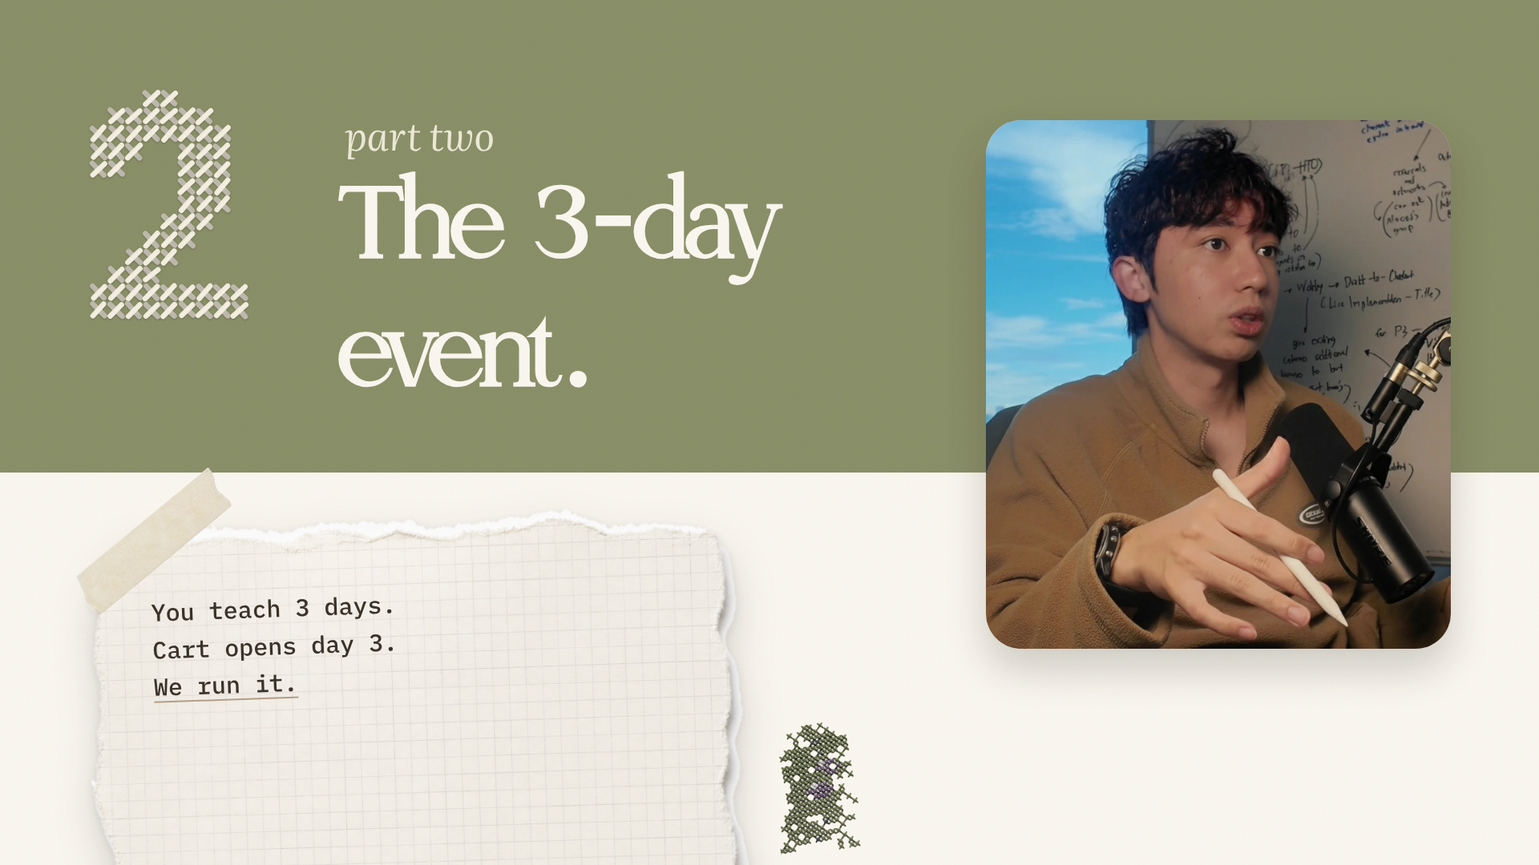
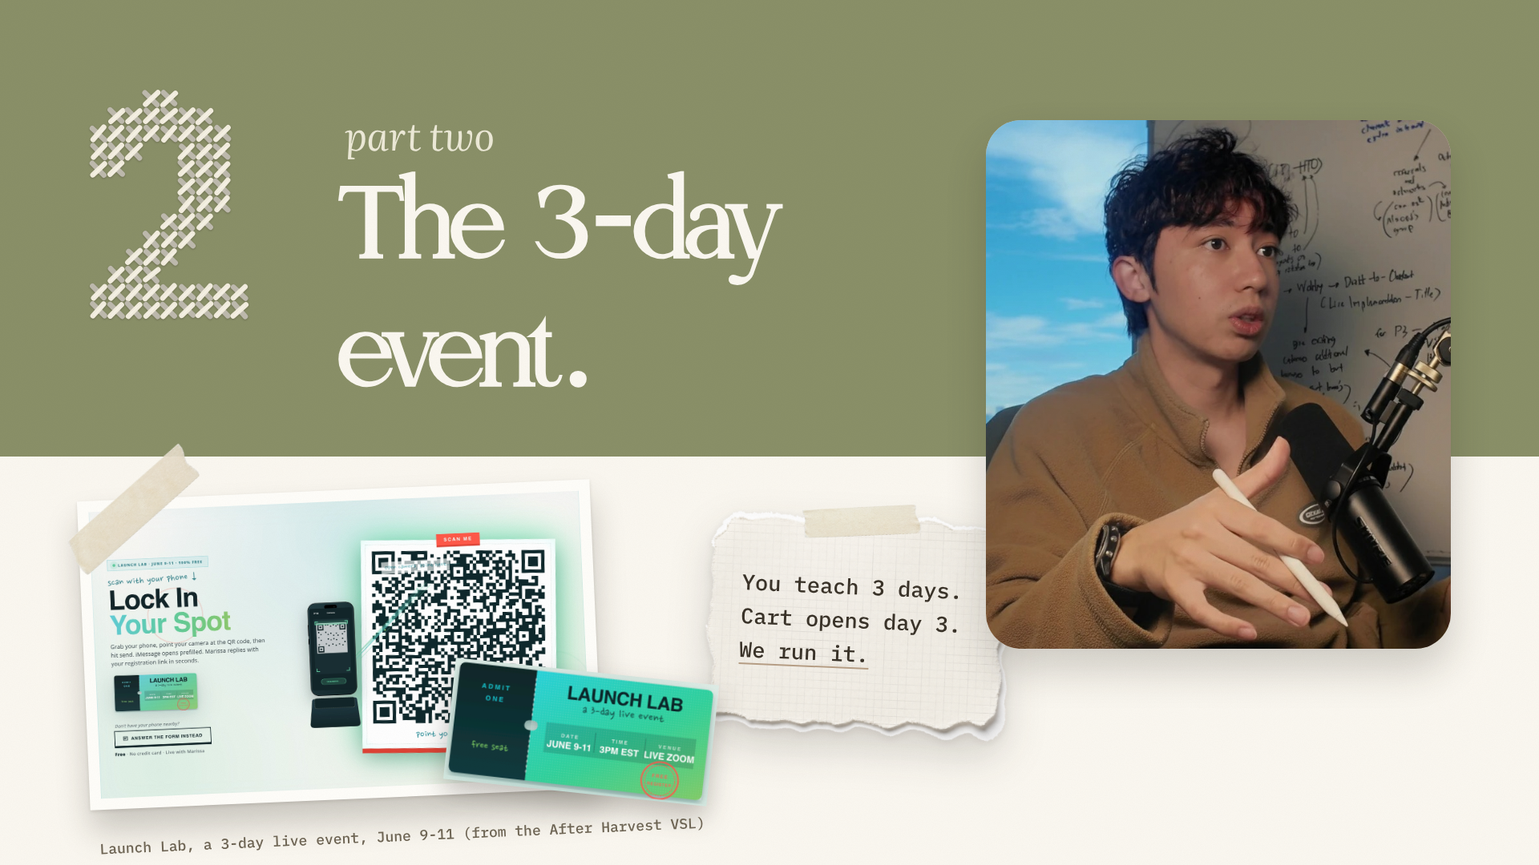
Light YouTube set: real pictures and screenshots on slides 3, 7, 8, 10
Our own screenshots from the VSL in Figma (Launch Lab page and ticket, Jay Clouse's
post, our chat, his Lab photos) and marked stock placeholders from picjumbo, shown as
taped prints and polaroids with a one-line source. New shared classes .pol, .print,
.mark, .src. Sources in art/real/SOURCES.md; the standard in rulings.md and
rules/slide-method.md 3e (Sean 2026-10-29).

Claude-Session: https://claude.ai/code/session_011DXSQiHkohnvERXvgbS9yh

diff --git a/templates/youtube/youtube-light.html b/templates/youtube/youtube-light.html
@@ -62,6 +62,19 @@
 .tile { position: absolute; border-radius: 18px; border: 3px dashed #C9BCA4; background: rgba(241,236,225,.6); z-index: 10;
   display: flex; align-items: center; justify-content: center; font-family: var(--label); font-size: 22px; color: #A99D84; }
 
+/* real pictures (Sean 2026-10-29): a polaroid for a photo, a print for a screenshot, the source line under it */
+.pol { position: absolute; background: #FFFEFA; padding: 16px 16px 0; z-index: 12;
+  box-shadow: 0 24px 36px rgba(38,33,25,.24), 0 2px 4px rgba(38,33,25,.12); }
+.pol .p { display: block; width: 100%; object-fit: cover; }
+.pol .cap { padding: 14px 6px 20px; }
+.pol .cap b { display: block; font-family: var(--body); font-weight: 800; font-size: 28px; line-height: 1.15; color: #262119; }
+.pol .cap > span { display: block; margin-top: 8px; font-family: var(--label); font-size: 19px; line-height: 1.4; color: #6E6554; }
+.print { position: absolute; background: #FFFEFA; padding: 14px; z-index: 12;
+  box-shadow: 0 26px 40px rgba(38,33,25,.22), 0 2px 4px rgba(38,33,25,.12); }
+.print img { display: block; width: 100%; }
+.print .mark { position: absolute; background: rgba(232,161,0,.42); mix-blend-mode: multiply; border-radius: 4px; transform: rotate(-.6deg); }
+.src { position: absolute; z-index: 20; font-family: var(--label); font-size: 18px; color: #6E6554; }
+
 /* 1. Title. Deya 1 + 24: a small lead-in, a huge word, a script line, an aside; objects at the edges. */
 .s1 .pre { left: 118px; top: 196px; font-size: 52px; }
 .s1 .mega { left: 106px; top: 262px; font-size: 168px; }
@@ -88,16 +101,20 @@
 .s2 .cam { left: 1530px; top: 120px; width: 300px; height: 300px; }
 .s2 .wheat { left: 1500px; top: 820px; width: 520px; transform: rotate(-150deg); z-index: 5; }
 
-/* 3. Part title. Deya 18 + 19: a colour band, the number stitched, the face over the edge, a torn note taped below. */
-.s3 .band { position: absolute; left: 0; top: 0; width: 1920px; height: 590px; background: #8A9068; z-index: 2; }
+/* 3. Part title. Deya 18 + 19, with the real thing (Sean 2026-10-29: "in my slides, there to be real pictures, real
+   screenshots"): a real 3-day event's page and ticket taped under the band, the note beside it. */
+.s3 .band { position: absolute; left: 0; top: 0; width: 1920px; height: 570px; background: #8A9068; z-index: 2; }
 .s3 .num { left: 112px; top: 112px; z-index: 20; }
 .s3 .pre { left: 430px; top: 132px; font-size: 48px; color: #EDEAD8; }
 .s3 .ol { left: 424px; top: 200px; font-size: 156px; color: #FBF8F1; }
 .s3 .cam { left: 1230px; top: 150px; width: 580px; height: 660px; }
-.s3 .paper { left: 112px; top: 640px; width: 820px; transform: rotate(-2deg); z-index: 10; }
-.s3 .note { left: 190px; top: 730px; transform: rotate(-2deg); z-index: 20; width: 680px; }
-.s3 .tape1 { left: 80px; top: 630px; width: 220px; transform: rotate(-30deg); }
-.s3 .sprig { left: 960px; top: 880px; width: 120px; transform: rotate(-10deg); }
+.s3 .page { left: 104px; top: 612px; width: 640px; transform: rotate(-2.5deg); }
+.s3 .ticket { left: 560px; top: 838px; width: 330px; transform: rotate(6deg); z-index: 16; filter: drop-shadow(0 14px 16px rgba(38,33,25,.28)); }
+.s3 .src { left: 124px; top: 1032px; transform: rotate(-2.5deg); }
+.s3 .paper { left: 880px; top: 640px; width: 380px; transform: rotate(2.5deg); z-index: 10; }
+.s3 .note { left: 924px; top: 712px; width: 320px; font-size: 27px; transform: rotate(2.5deg); z-index: 20; }
+.s3 .tape1 { left: 70px; top: 596px; width: 190px; transform: rotate(-32deg); }
+.s3 .tape2 { left: 1000px; top: 622px; width: 150px; transform: rotate(7deg); }
 
 /* 4. The actual problem. Deya 13: bold title with one shouted word, typewriter underneath, a colour panel, a
    character standing next to the face (ours is the stitched scarecrow). */
@@ -128,29 +145,34 @@
 .s6 .burst { left: 1540px; top: 110px; width: 300px; height: 300px; background: #8A9068; transform: rotate(10deg); }
 .s6 .burst span { font-size: 36px; color: #FBF8F1; width: 190px; }
 
-/* 7. Proof, taped. Deya 14: the label runs up the edge, the screenshot is taped on, a drawn arrow points. */
+/* 7. Proof, taped. Deya 14: the label runs up the edge, the REAL screenshot taped on in two pieces (Jason slides
+   20:17: screenshots are your best friend; highlight the key line only, keep the source under it). */
 .s7 .side { position: absolute; left: 52px; top: 120px; height: 860px; writing-mode: vertical-rl; transform: rotate(180deg); text-align: right;
   font-family: var(--display-italic); font-size: 200px; line-height: 1; color: #B06A4A; -webkit-text-stroke: .02em currentColor; z-index: 20; }
-.s7 .post1 { left: 400px; top: 180px; width: 1000px; padding: 46px 52px 40px; transform: rotate(-2deg); }
-.s7 .post2 { left: 1010px; top: 640px; width: 680px; padding: 28px 36px; transform: rotate(2.2deg); z-index: 16; }
-.s7 .tape1 { left: 380px; top: 150px; width: 230px; transform: rotate(-26deg); }
-.s7 .tape2 { left: 1260px; top: 120px; width: 230px; transform: rotate(20deg); }
-.s7 .arrow { left: 270px; top: 520px; width: 230px; transform: rotate(-12deg); z-index: 30; }
+.s7 .p1 { left: 330px; top: 104px; width: 548px; transform: rotate(-2deg); }
+.s7 .p1 .mark { left: 72px; top: 136px; width: 182px; height: 28px; }
+.s7 .p2 { left: 846px; top: 330px; width: 628px; transform: rotate(2.4deg); z-index: 13; }
+.s7 .s1 { left: 350px; top: 852px; transform: rotate(-2deg); }
+.s7 .s2 { left: 870px; top: 950px; transform: rotate(2.4deg); }
+.s7 .lab { left: 1478px; top: 596px; width: 400px; transform: rotate(5deg); }
+.s7 .tape1 { left: 300px; top: 92px; width: 210px; transform: rotate(-28deg); }
+.s7 .tape2 { left: 1300px; top: 318px; width: 190px; transform: rotate(24deg); }
+.s7 .tape3 { left: 1600px; top: 580px; width: 150px; transform: rotate(-6deg); }
+.s7 .line { left: 350px; top: 998px; font-size: 40px; }
 .s7 .cam { left: 1500px; top: 110px; width: 340px; height: 340px; }
-.s7 .sprig { left: 300px; top: 850px; width: 110px; transform: rotate(-16deg); }
-.msg { display: flex; gap: 16px; align-items: flex-start; } .msg + .msg { margin-top: 18px; }
-.msg .av { width: 54px; height: 54px; font-size: 19px; } .msg .me { background: url(art/sean-face-preview.png) center 30%/cover; }
-.msg .nm { font-size: 24px; color: #262119; } .msg .tm { font-size: 19px; color: #8C8576; font-weight: 400; margin-left: 10px; }
-.msg .say { font-size: 29px; color: #262119; margin-top: 2px; }
 
-/* 8. Same list, same offer: which one sells? Deya 11: the question, chips, real objects. */
+/* 8. Same list, same offer: which one sells? Deya 11: the question, chips, real pictures (a real live session, a
+   real 3-day event's ticket; a stock photo stands in for the launch inbox). */
 .s8 .pre { left: 0; right: 0; top: 96px; text-align: center; font-size: 50px; }
 .s8 .mega { left: 0; right: 0; top: 160px; text-align: center; font-size: 132px; }
-.s8 .k1 { left: 150px; top: 350px; font-size: 84px; color: #6E6554; }
-.s8 .k2 { left: 1050px; top: 350px; font-size: 84px; color: #B06A4A; }
-.s8 .env { left: 170px; top: 470px; width: 520px; transform: rotate(-5deg); filter: saturate(.6) drop-shadow(0 22px 26px rgba(38,33,25,.16)); }
-.s8 .tix { left: 1100px; top: 450px; width: 720px; }
-.s8 .c1 { left: 150px; top: 850px; width: 620px; } .s8 .c2 { left: 1150px; top: 880px; width: 720px; }
+.s8 .k1 { left: 150px; top: 330px; font-size: 84px; color: #6E6554; }
+.s8 .k2 { left: 1130px; top: 330px; font-size: 84px; color: #B06A4A; }
+.s8 .pa { left: 140px; top: 446px; width: 560px; transform: rotate(-3deg); }
+.s8 .pa .p { height: 330px; filter: saturate(.75); }
+.s8 .pb { left: 1150px; top: 446px; width: 620px; transform: rotate(2.5deg); }
+.s8 .pb .p { height: 318px; }
+.s8 .tkt { left: 1600px; top: 372px; width: 270px; transform: rotate(9deg); z-index: 18; filter: drop-shadow(0 14px 16px rgba(38,33,25,.28)); }
+.s8 .c1 { left: 150px; top: 920px; width: 620px; } .s8 .c2 { left: 1200px; top: 922px; width: 700px; }
 .s8 .or { left: 928px; top: 520px; z-index: 20; }
 .s8 .cam { left: 805px; top: 700px; width: 310px; height: 310px; }
 
@@ -164,15 +186,23 @@
 .s9 .w2 { left: 1480px; top: 790px; width: 640px; transform: rotate(-148deg); z-index: 5; }
 .s9 .flower { left: 1560px; top: 160px; width: 120px; transform: rotate(12deg); }
 
-/* 10. Why events sell more. Deya 10: a full colour field, the list top to bottom (Jason 1:29), numbers stitched. */
+/* 10. Why events sell more. Deya 10: a full colour field, the list top to bottom (Jason 1:29) as three taped
+   polaroids, each reason shown by a real photo, numbers stitched on the frames. */
 .s10 { background: #8A9068; }
 .s10::before { mix-blend-mode: multiply; opacity: .55; }
-.s10 .ol { left: 112px; top: 110px; font-size: 120px; color: #FBF8F1; }
-.s10 .row { position: absolute; left: 118px; display: flex; gap: 40px; align-items: flex-start; z-index: 20; }
-.s10 .row .w { font-family: var(--body); font-weight: 800; font-size: 54px; color: #FBF8F1; letter-spacing: -.01em; line-height: 1.1; }
-.s10 .row .t { font-family: var(--label); font-size: 27px; color: #E4E3D2; margin-top: 10px; }
-.s10 .r1 { top: 330px; } .s10 .r2 { top: 545px; } .s10 .r3 { top: 760px; }
-.s10 .row .n { width: 100px; padding-top: 6px; }
+.s10 .ol { left: 112px; top: 96px; font-size: 112px; color: #FBF8F1; }
+.s10 .pol { width: 340px; }
+.s10 .pol .p { height: 230px; }
+.s10 .q1 { left: 112px; top: 300px; transform: rotate(-3deg); }
+.s10 .q2 { left: 480px; top: 334px; transform: rotate(2deg); }
+.s10 .q3 { left: 848px; top: 296px; transform: rotate(-1.5deg); }
+.s10 .pol .n { position: absolute; left: 6px; bottom: -94px; z-index: 3; }
+.s10 .pol .cap b span { white-space: nowrap; }
+.s10 .pol .n { left: 18px; }
+.s10 .t1 { left: 222px; top: 284px; width: 130px; transform: rotate(-8deg); }
+.s10 .t2 { left: 590px; top: 318px; width: 130px; transform: rotate(6deg); }
+.s10 .t3 { left: 958px; top: 280px; width: 130px; transform: rotate(-4deg); }
+.s10 .line { left: 118px; top: 850px; width: 1080px; font-size: 42px; color: #F3EEDF; }
 .s10 .paper { left: 1200px; top: 120px; width: 700px; transform: rotate(4deg); z-index: 5; }
 .s10 .cam { left: 1270px; top: 210px; width: 560px; height: 680px; }
 .s10 .wheat { left: 1560px; top: 880px; width: 480px; transform: rotate(-160deg); z-index: 45; }
@@ -228,10 +258,13 @@
   <div class="a num" data-stitch="2" data-cell="22" data-px="18" data-color="#F3EEDF"></div>
   <div data-edit class="a pre">part two</div>
   <div data-edit class="a ol">The 3-day<br>event.</div>
+  <div class="print page"><img src="art/real/launch-lab-registration-page.jpg" alt=""></div>
+  <img class="ticket a" src="art/real/launch-lab-ticket.png" alt="">
+  <div data-edit class="src">Launch Lab, a 3-day live event, June 9-11 (from the After Harvest VSL)</div>
   <img class="ph paper" src="art/photo/graph.png" alt="">
   <div class="a tw note"><span data-edit>You teach 3 days.</span><br><span data-edit>Cart opens day 3.</span><br><span data-edit><u>We run it.</u></span></div>
   <img class="tp tape1" src="art/photo/tape2.png" alt="">
-  <img class="icon sprig" src="art/figma/stitch-sprig-olive-lilac.png" alt="">
+  <img class="tp tape2" src="art/photo/tape1.png" alt="">
   <div class="cam box"><img src="art/sean-cam.jpg" alt=""></div>
 </section>
 
@@ -270,20 +303,16 @@
 <!-- 7 proof, taped -->
 <section class="slide lt s7" id="s7-proof">
   <div data-edit class="side">proof #1</div>
-  <div class="post post1">
-    <div class="row"><div class="av">JC</div><div><div class="nm">Jay Clouse</div><div class="hd">@jayclouse</div></div></div>
-    <div class="tx">It took nine years, but we just had our <mark>first $100,000+ launch.</mark></div>
-    <div class="meta">9:45 PM &middot; 7/9/26 &middot; <b style="color:#0f1419">16K</b> Views</div>
-    <div class="stats"><span><b>63</b> replies</span><span><b>217</b> likes</span></div>
-  </div>
-  <div class="post post2">
-    <div class="msg"><div class="av">JC</div><div><div class="nm"><b>Jay Clouse</b><span class="tm">8:47 AM</span></div><div class="say">we did! about 30 mins ago</div></div></div>
-    <div class="msg"><div class="av me"></div><div><div class="nm"><b>Sean Canela</b><span class="tm">8:51 AM</span></div><div class="say">let&rsquo;s go!!!!</div></div></div>
-  </div>
+  <div class="print p1"><img src="art/real/jay-post.png" alt=""><div class="mark"></div></div>
+  <div class="print p2"><img src="art/real/jay-chat.png" alt=""></div>
+  <div data-edit class="src s1">x.com/jayclouse, 9:45 PM, 7/9/26</div>
+  <div data-edit class="src s2">our chat: 3:57 AM, then 8:47 AM</div>
+  <div class="pol lab"><img class="p" style="height:216px" src="art/real/jay-the-lab-group.jpg" alt="">
+    <div class="cap"><b data-edit>The Lab</b><span data-edit>Jay's membership, 200 members (his own page)</span></div></div>
   <img class="tp tape1" src="art/photo/tape1.png" alt="">
   <img class="tp tape2" src="art/photo/tape2.png" alt="">
-  <img class="icon arrow" src="art/figma/hand-arrow-loop-olive-cut.png" alt="">
-  <img class="icon sprig" src="art/figma/stitch-sprig-olive-lilac.png" alt="">
+  <img class="tp tape3" src="art/photo/tape1.png" alt="">
+  <div data-edit class="a pre line">nine years in, and then this.</div>
   <div class="cam round"><img src="art/sean-cam.jpg" alt=""></div>
 </section>
 
@@ -293,9 +322,12 @@
   <div data-edit class="a mega">Which one sells?</div>
   <div data-edit class="a sc k1">a launch</div>
   <div data-edit class="a sc k2">a 3-day event</div>
-  <img class="ph env" src="art/photo/envelope.png" alt="">
-  <img class="ph tix" src="art/photo/tickets.png" alt="">
-  <div class="a c1"><span data-edit class="chip out">email after email</span><span data-edit class="chip out">a replay</span><span data-edit class="chip out">cart closes Friday</span></div>
+  <div class="pol pa"><img class="p" src="art/real/stock-mail-24-unread.jpg" alt="">
+    <div class="cap"><b data-edit>Email after email.</b><span data-edit>seven days of them, then a sales page</span></div></div>
+  <div class="pol pb"><img class="p" src="art/real/jay-unreal-collective-zoom.jpg" alt="">
+    <div class="cap"><b data-edit>Live, in the room.</b><span data-edit>a live session on Zoom (from Jay Clouse's site)</span></div></div>
+  <img class="tkt a" src="art/real/launch-lab-ticket.png" alt="">
+  <div class="a c1"><span data-edit class="chip out">a replay</span><span data-edit class="chip out">cart closes Friday</span></div>
   <div class="a c2"><span data-edit class="chip on">Day 1, live</span><span data-edit class="chip on">Day 2, live</span><span data-edit class="chip on">Day 3: the offer</span></div>
   <div class="a or" data-stitch="or" data-cell="6" data-px="18" data-color="#B06A4A"></div>
   <div class="cam round"><img src="art/sean-cam.jpg" alt=""></div>
@@ -316,9 +348,19 @@
 <!-- 10 why events sell more -->
 <section class="slide lt s10" id="s10-list">
   <div data-edit class="a ol">Why events sell more</div>
-  <div class="row r1"><div class="n" data-stitch="1" data-cell="9" data-px="18" data-color="#F3EEDF"></div><div><div data-edit class="w">People show up for a date.</div><div data-edit class="t">A launch is always open. An event starts at 11.</div></div></div>
-  <div class="row r2"><div class="n" data-stitch="2" data-cell="9" data-px="18" data-color="#F3EEDF"></div><div><div data-edit class="w">They watch you teach, live.</div><div data-edit class="t">Trust is built in the room, not in an email.</div></div></div>
-  <div class="row r3"><div class="n" data-stitch="3" data-cell="9" data-px="18" data-color="#F3EEDF"></div><div><div data-edit class="w">Three days earn one decision.</div><div data-edit class="t">By day 3 the offer is the next step.</div></div></div>
+  <div class="pol q1"><div class="n" data-stitch="1" data-cell="7" data-px="18" data-color="#F3EEDF"></div>
+    <img class="p" src="art/real/stock-calendar-thursday-31.jpg" alt="">
+    <div class="cap"><b data-edit><span>People show up</span><br><span>for a date.</span></b><span data-edit>A launch is always open. An event starts at 11.</span></div></div>
+  <div class="pol q2"><div class="n" data-stitch="2" data-cell="7" data-px="18" data-color="#F3EEDF"></div>
+    <img class="p" src="art/real/stock-whiteboard-teaching.jpg" alt="">
+    <div class="cap"><b data-edit><span>They watch you</span><br><span>teach, live.</span></b><span data-edit>Trust is built in the room, not in an email.</span></div></div>
+  <div class="pol q3"><div class="n" data-stitch="3" data-cell="7" data-px="18" data-color="#F3EEDF"></div>
+    <img class="p" src="art/real/stock-buying-on-laptop.jpg" alt="">
+    <div class="cap"><b data-edit><span>Three days earn</span><br><span>one decision.</span></b><span data-edit>By day 3 the offer is the next step.</span></div></div>
+  <img class="tp t1" src="art/photo/tape1.png" alt="">
+  <img class="tp t2" src="art/photo/tape2.png" alt="">
+  <img class="tp t3" src="art/photo/tape1.png" alt="">
+  <div data-edit class="a pre line">Same list, same offer. The date, the room and the three days do the selling.</div>
   <img class="ph paper" src="art/photo/graph.png" alt="">
   <div class="cam box"><img src="art/sean-cam.jpg" alt=""></div>
   <img class="ph wheat" src="art/photo/wheat.png" alt="">

diff --git a/templates/youtube/art/real/SOURCES.md b/templates/youtube/art/real/SOURCES.md
@@ -1,0 +1,28 @@
+# Real pictures
+
+Sean, 2026-10-29: "in my slides, there to be real pictures, real screenshots" / "you can get real pics from online
+even if they are placeholders". Two kinds live here, and the file name says which:
+
+- **Ours (real, keep):** cut from the After Harvest VSL in Figma (file `EoJfQnkEBeslSHoDOzSSBm`, page node `1:51`,
+  downloaded with the Figma connector's `download_assets`). These are our own proof and our own event.
+- **`stock-*` (placeholders):** free photos from picjumbo.com (free licence, no credit needed). Swap each for a real
+  photo or screenshot of ours when we have one.
+
+| file | what it is | where it came from | used on |
+|---|---|---|---|
+| launch-lab-registration-page.jpg | Launch Lab's registration page ("Lock In Your Spot", QR code), a 3-day live event, June 9-11 | Figma VSL raw image r09 (2940x1722), downsized | s3 |
+| launch-lab-ticket.png | the Launch Lab ticket (June 9-11, 3PM EST, Live Zoom, free seat) | cut from r09, crop (48,468,292,580) of the 1400 px copy | s3, s8 |
+| jay-clouse-lab-page.jpg | Jay Clouse's The Lab page | Figma VSL raw image r03 (2380x1566) | not yet |
+| jay-the-lab-group.jpg | The Lab members' group photo, from Jay's page | cut from r03, crop (958,490,1284,666) of the 1400 px copy | s7 |
+| jay-unreal-collective-zoom.jpg | a live Zoom session, from Jay's page | cut from r03, crop (124,490,448,666) of the 1400 px copy | s8 |
+| jay-post-and-chat.png | Jay's "$100,000+ launch" post on X (9:45 PM, 7/9/26) beside our chat with him (3:57 AM, 8:47 AM) | `../figma/proof-jay-clouse-tweet-and-chat.png` (480x270, the only size in the file), 2x Lanczos + unsharp | spare |
+| jay-post.png, jay-chat.png | the same, split into the post and the chat. The chat's "right nov" is cut in the original screenshot | from jay-post-and-chat.png | s7 |
+| stock-calendar-thursday-31.jpg | calendar app icon, Thursday 31 | https://picjumbo.com/calendar-app-icon-for-time-management/ | s10 |
+| stock-whiteboard-teaching.jpg | someone writing a list on a whiteboard | https://picjumbo.com/team-leader-writing-on-white-board/ | s10 |
+| stock-buying-on-laptop.jpg | someone paying by card on a laptop | https://picjumbo.com/woman-purchasing-a-product-with-credit-card/ | s10 |
+| stock-mail-24-unread.jpg | Mail icon with 24 unread | https://picjumbo.com/notifications-in-email-messages-apps-zero-inbox/ | s8 |
+| stock-phone-sales.jpg | a sales dashboard on a phone | https://picjumbo.com/gumroad-dashboard-app-online-selling-digital-goods/ | not yet |
+| stock-paper-week-planner.jpg | a paper week planner | https://picjumbo.com/creative-woman-planning-her-week-in-calendar-feminine-style/ | not yet |
+
+Where the rest of the web was closed from a cloud session (2026-10-29): Unsplash (bot check), Pexels, Pixabay,
+StockSnap, rawpixel and Freepik (403), Openverse (unreachable), Wikimedia (429). picjumbo works with `curl`.

diff --git a/rules/slide-method.md b/rules/slide-method.md
@@ -93,6 +93,24 @@ The light set (`youtube-light.html`, 11 slides) is the recipe:
   `art/photo/SOURCES.md` lists each with its Canva media id.
 - Grounds: warm paper, sage and rust panels or bands; the face big, unframed, soft shadow.
 
+## 3e. Real pictures, real screenshots (ruling 2026-10-29)
+
+Sean on the light set: "in my slides, there to be real pictures, real screenshots... more texture or a bit more
+content, more text maybe", then "you can get real pics from online even if they are placeholders".
+- Every story or proof slide carries at least one real picture. Best first: our own (a lead's page, our event's
+  ticket, a client's post, our chat with them; the VSL file in Figma holds many), then a free stock photo as a
+  placeholder (`stock-*` in the name, so it is easy to find and swap).
+- Show them as objects: a print (`.print`, white border, soft shadow) or a polaroid (`.pol`, caption under the
+  photo), taped, tilted 2-6 degrees, overlapping a little. A highlighter swipe (`.print .mark`) on the one line
+  that matters in a screenshot.
+- Under each one, a one-line source in Plex Mono (`.src`): where it is from and its date ("x.com/jayclouse, 9:45
+  PM, 7/9/26"). Proof without a source reads as made up.
+- More text means a caption per picture (a bold line + one typewriter line), not a paragraph.
+- Never retype a screenshot as boxes, never a fake UI. A small source image is upscaled once (2x Lanczos +
+  unsharp) and shown no bigger than it reads.
+- Every file and its source: `templates/youtube/art/real/SOURCES.md`. Closed from a cloud session: Unsplash,
+  Pexels, Pixabay, Freepik; picjumbo works with curl.
+
 ## 4. What makes it look human (Deya, the brief, Mino)
 
 - **The real artefact is the picture**: Deya shows her actual task list, her actual bookshelf.

diff --git a/rulings.md b/rulings.md
@@ -15,3 +15,4 @@ the standard, Sean's words, what it changes.
 | 2026-10-28 | Round 4 YouTube set and three directions | "idk they look boring af" / "they just look like placeholders" / "i like the idea of b and c" | the YouTube look is the dark stage (warm near-black, a gold spotlight, eggshell type, one gold moment) with real photo objects that carry real printed detail: `templates/youtube/youtube-dark.html` |
 | 2026-10-28 | Layouts | "When are you going to make the real nice templates with interesting layouts?" (the five dark slides shared one layout) | `templates/youtube/layouts.html`: 14 layouts, each a different composition built around the camera (Deya: the face is a third of the frame); a video never repeats one layout back to back |
 | 2026-10-28 | The light set | "Can you make a light one? ... it still doesn't feel complete for me. It still looks very Claude" | `templates/youtube/youtube-light.html`: no caps-label stack; titles mix three voices (Literata lead-in, Hanken Black or Olivera, Olivera Oblique); typewriter body in Plex Mono sentence case; grid paper, tape, folders, wheat, a straw hat on the face; the brand's own cross-stitch (`stitch.js`, the stitch icons, the scarecrow) instead of generic marks |
+| 2026-10-29 | Real pictures | "in my slides, there to be real pictures, real screenshots... more texture or a bit more content, more text maybe" / "you can get real pics from online even if they are placeholders" | every story or proof slide carries at least one real picture: our own screenshots (the VSL in Figma, our events, our chats) first, a free stock photo as a marked placeholder when we have none; printed, taped, with a one-line source under it; `templates/youtube/art/real/` + its SOURCES.md; rules/slide-method.md 3e |

diff --git a/playbooks/core.md b/playbooks/core.md
@@ -57,7 +57,7 @@ pitching January launches.
 ## Waiting on Sean (these change what we build)
 
 - Plain like Jason ("better to look ugly" [Jason slides 16:06]) or crafted ("nicely made")?
-- AI-generated objects, or real photos and screenshots only [Jason slides 7:22, 20:05]?
+- AI-generated props next to the real pictures, or real photos and screenshots only [Jason slides 7:22, 20:05]?
 - One font, no italics [Jason slides 13:35] vs our three type voices?
 - Close to a booked call (Jeremy) or to checkout (Jason, our Day 3)? Price on screen or not [Jeremy 1:19:03]?
 - Our videos as on-ramps to one unlisted core video [Jason new webinar 13:11]? Is the VSL that core video?

diff --git a/playbooks/slides.md b/playbooks/slides.md
@@ -221,6 +221,8 @@ One call to action; no presenter photo; questions answered live, not on the slid
 - The printed sheet, the from/to chart, the lit list (L09), the big total (L05) and the two-tone turn (L04) can be
   Fladdy layouts [Jason new webinar 6:35; Jason new way 2:38; Jason AI 0:29-12:34].
 
+**Ruling 2026-10-29:** real pictures and real screenshots on every story or proof slide, our own first, stock as a marked placeholder, each printed or a polaroid with a one-line source (rules/slide-method.md 3e).
+
 **Our reading** (ours): his rules are about function (what is biggest, what is real, what appears when), the rulings
 about finish. Apply both.
 
